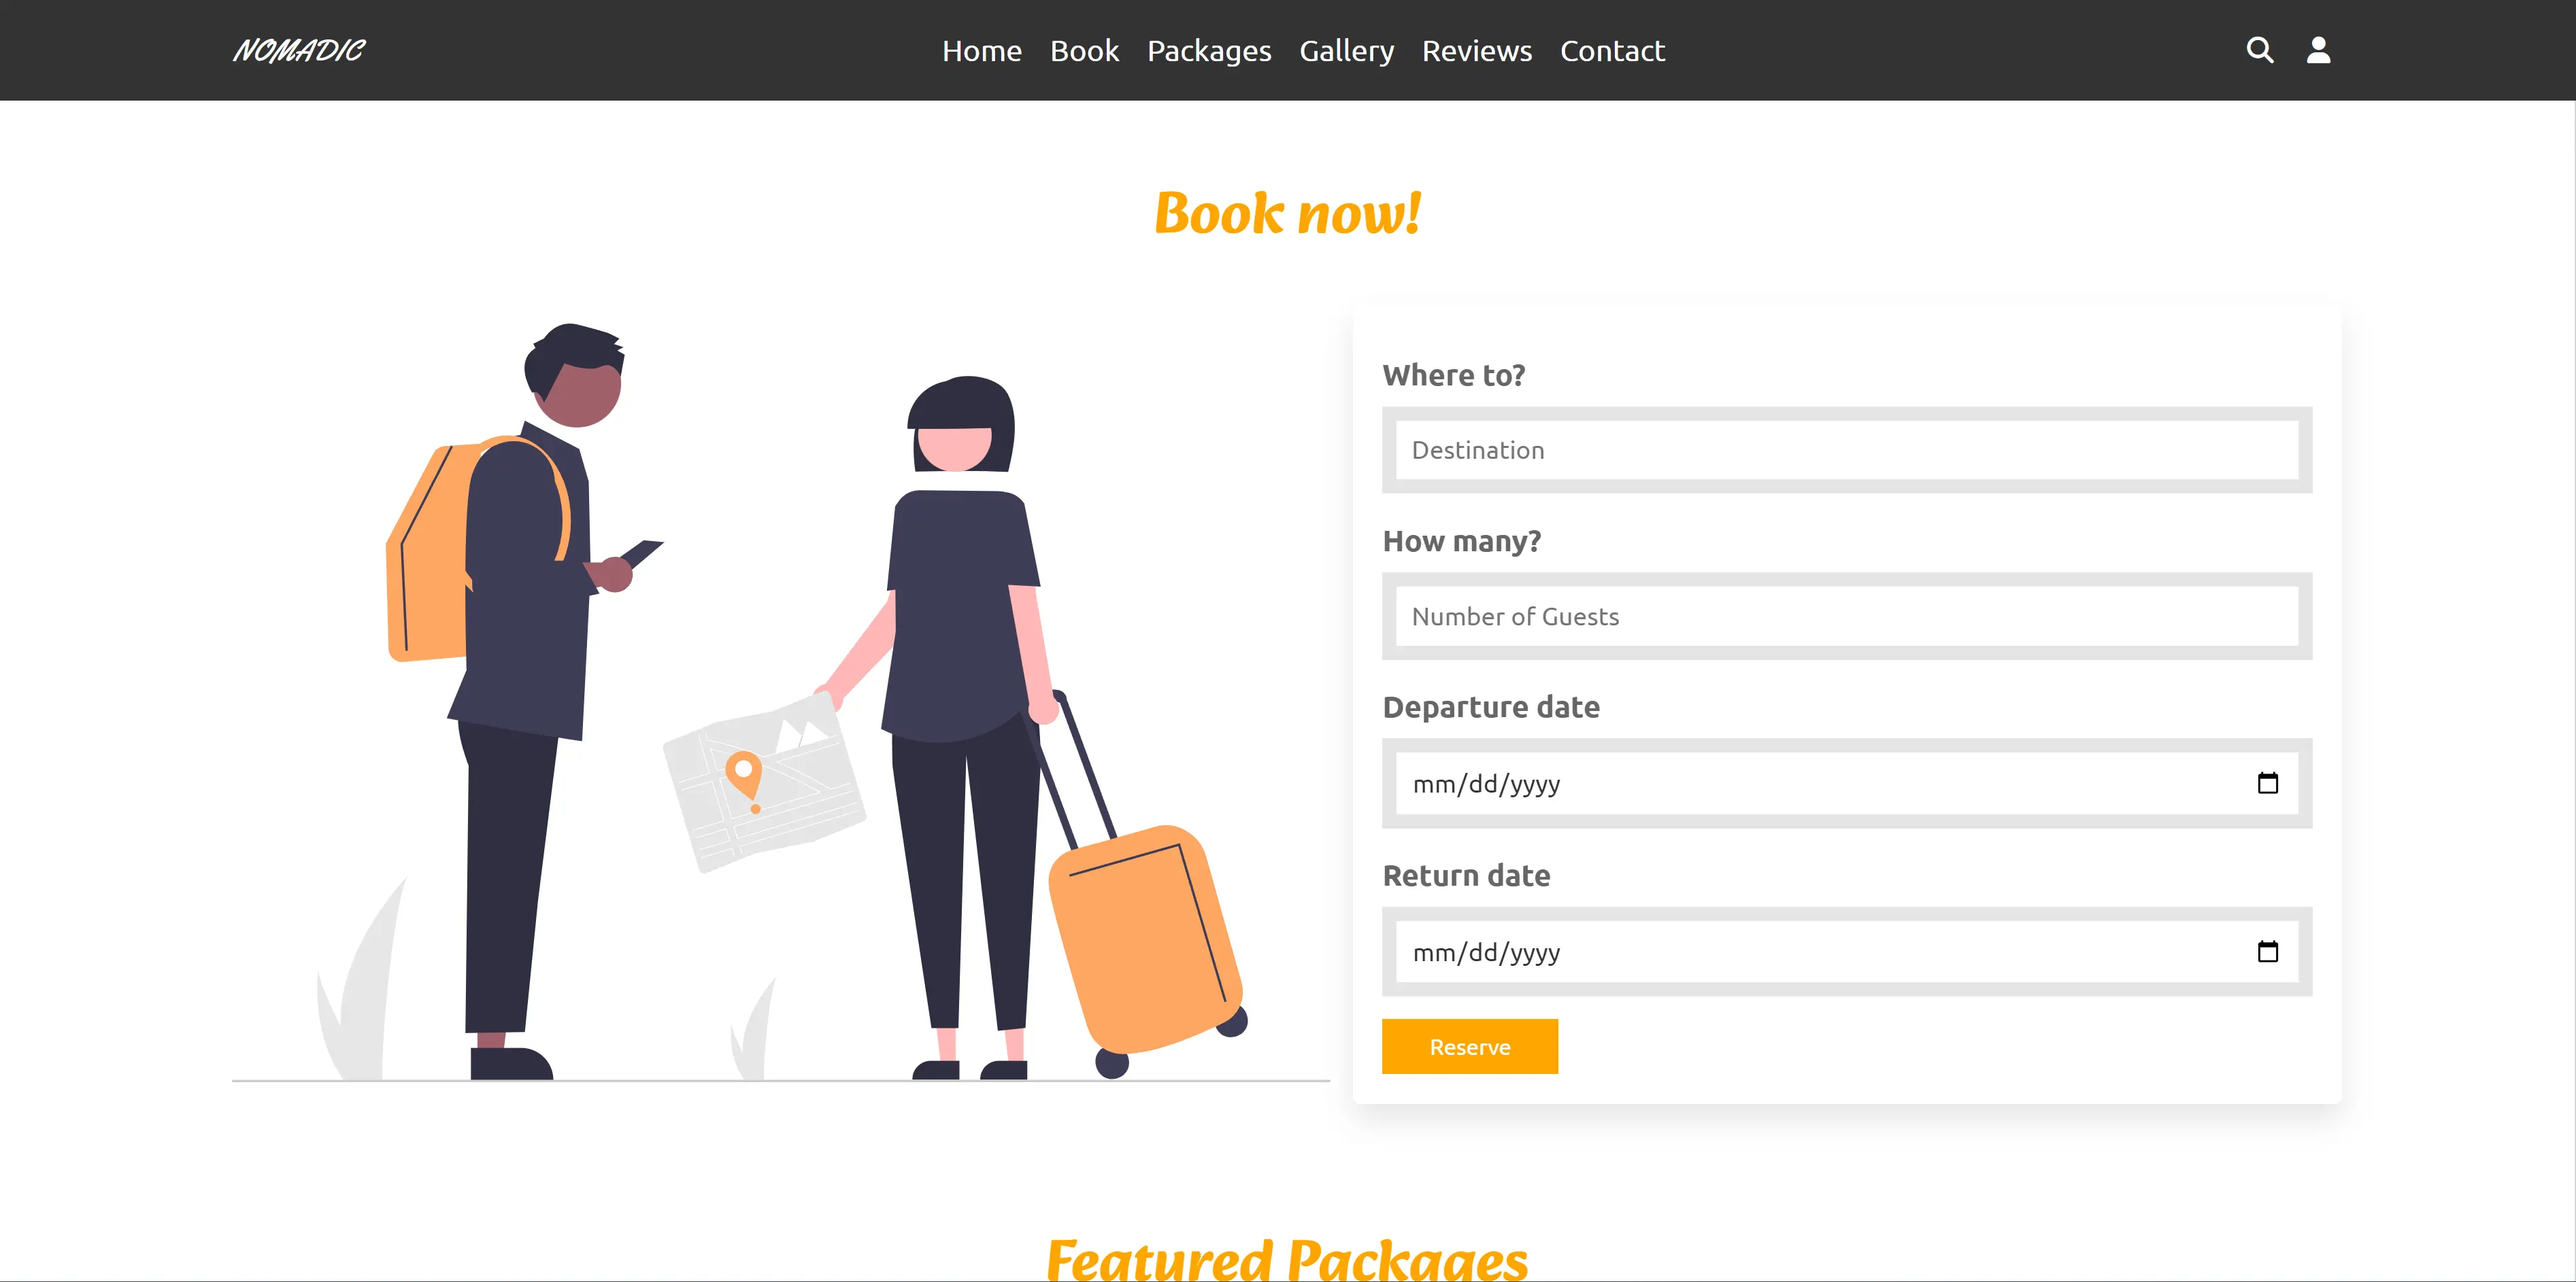
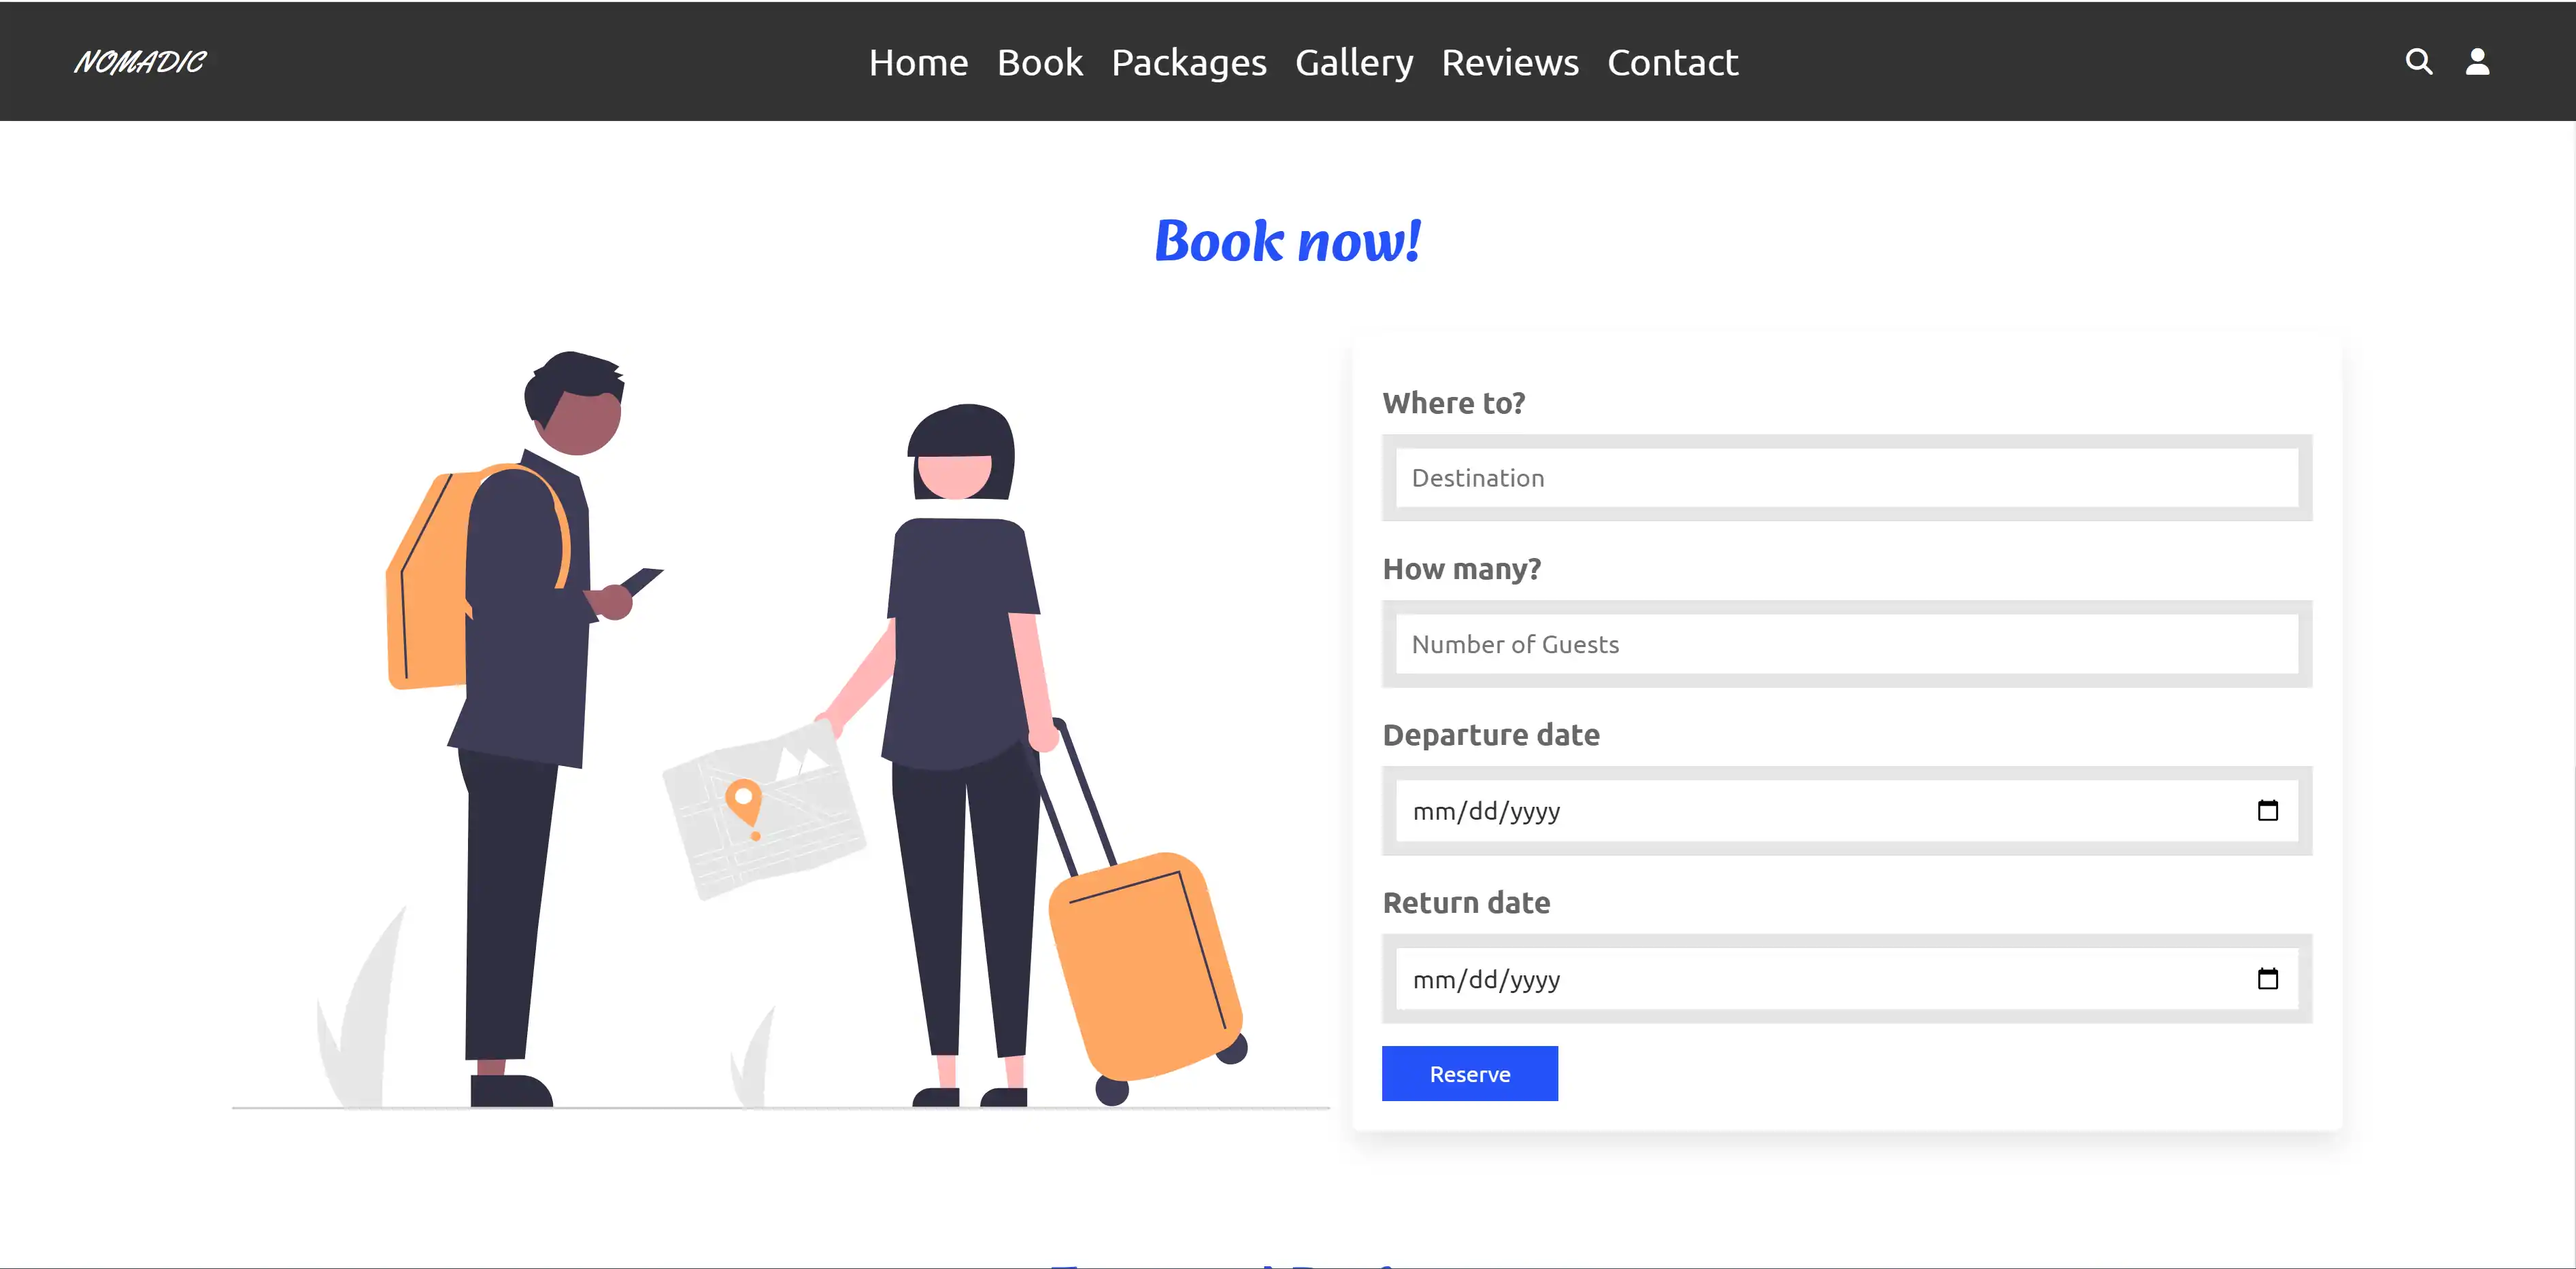
Refactor to improve SEO and update image assets

diff --git a/style.css b/style.css
@@ -1,11 +1,11 @@
-@import url("https://fonts.googleapis.com/css2?family=Alkatra:wght@700&family=Ubuntu:wght@300;400;500;700&family=Yellowtail&display=swap");
+@import url('https://fonts.googleapis.com/css2?family=Alkatra:wght@700&family=Ubuntu:wght@300;400;500;700&family=Yellowtail&display=swap');
 
 :root {
-  --highlight: orange;
+  --highlight: #2552fa;
 }
 
 * {
-  font-family: "Ubuntu", sans-serif;
+  font-family: 'Ubuntu', sans-serif;
   box-sizing: border-box;
   margin: 0;
   padding: 0;
@@ -47,7 +47,7 @@ section {
 }
 
 .heading span {
-  font-family: "Alkatra", cursive;
+  font-family: 'Alkatra', cursive;
   font-size: 4rem;
   color: var(--highlight);
   padding: 0.2rem 1rem;
@@ -86,7 +86,7 @@ header {
 }
 
 header .logo span {
-  font-family: "Yellowtail", cursive;
+  font-family: 'Yellowtail', cursive;
   font-size: 2rem;
   color: #fff;
   text-transform: uppercase;
@@ -597,7 +597,7 @@ header .search-bar-container label:hover {
   }
 
   section {
-    padding: 0.5rem;
+    padding: 1.5rem;
   }
 }
 
@@ -670,7 +670,7 @@ header .search-bar-container label:hover {
 
 @media (max-width: 280px) {
   header .logo span {
-    font-family: "Yellowtail", cursive;
+    font-family: 'Yellowtail', cursive;
     font-size: 2rem;
     color: #fff;
     text-transform: uppercase;

diff --git a/index.html b/index.html
@@ -6,8 +6,12 @@
     <meta name="viewport" content="width=device-width, initial-scale=1.0">
     <meta name="description" content="Nomadic Travel + Tours - travel website" />
     <link rel="icon" type="image/png" href="/assets/favicon.ico">
-    <link rel="stylesheet" href="https://cdnjs.cloudflare.com/ajax/libs/font-awesome/6.3.0/css/all.min.css">
-    <link rel="stylesheet" href="https://cdn.jsdelivr.net/npm/swiper@9/swiper-bundle.min.css" />
+    <link rel="stylesheet" rel="preload" href="https://cdnjs.cloudflare.com/ajax/libs/font-awesome/6.3.0/css/all.min.css">
+    <link
+  rel="stylesheet"
+  rel="preload" 
+  href="https://cdn.jsdelivr.net/npm/swiper@11/swiper-bundle.min.css"
+/>
     <link rel="stylesheet" href="style.css">
     <title>Nomadic Travel + Tours</title>
 </head>
@@ -457,7 +461,7 @@
     </section>
 
     <!-- Script -->
-    <script src="https://cdn.jsdelivr.net/npm/swiper@9/swiper-bundle.min.js"></script>
+    <script src="https://cdn.jsdelivr.net/npm/swiper@11/swiper-bundle.min.js"></script>
     <script defer src="script.js"></script>
 </body>
 </html>
